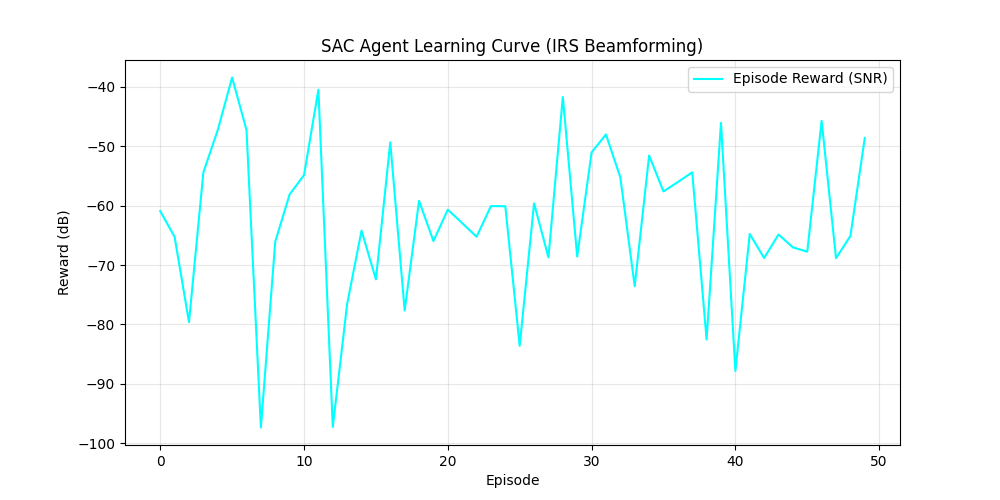
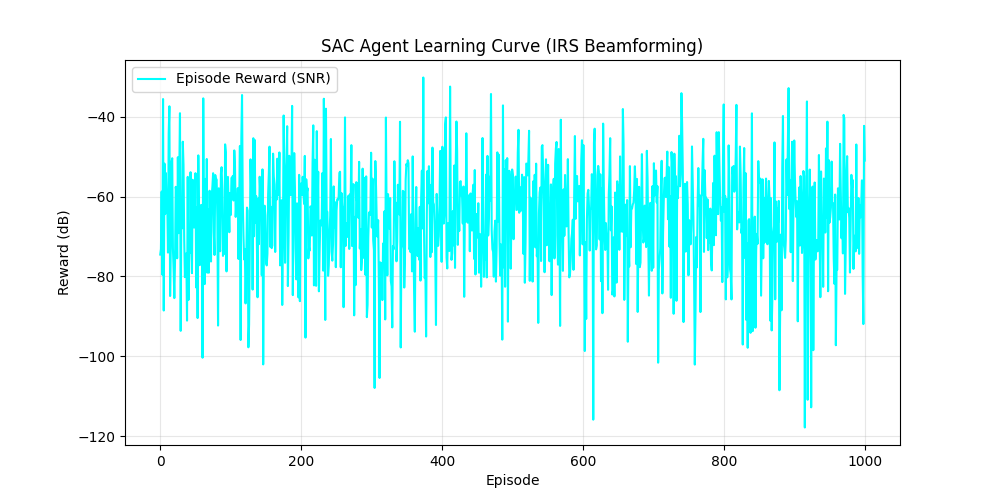
Enhancement: Optimize phase wrapping and complete 1000-episode SAC training

diff --git a/python/drl/irs_env.py b/python/drl/irs_env.py
@@ -82,8 +82,8 @@ class IRSEnv(gym.Env):
         # 1. Map action to a phase delta (max pi/4 radians per step)
         max_delta = np.pi / 4
         self.current_phases += action * max_delta
-        # Wrap phases to [-pi, pi]
-        self.current_phases = np.angle(np.exp(1j * self.current_phases))
+        # Wrap phases to [-pi, pi] efficiently without complex exponentials
+        self.current_phases = (self.current_phases + np.pi) % (2 * np.pi) - np.pi
         self.irs_panel.phases = self.current_phases
         Phi = self.irs_panel.get_reflection_matrix()
         

diff --git a/python/drl/train_agent.py b/python/drl/train_agent.py
@@ -17,7 +17,7 @@ def main():
     
     agent = SACAgent(state_dim=state_dim, action_dim=action_dim)
     
-    num_episodes = 50
+    num_episodes = 1000
     batch_size = 64
     
     rewards_history = []